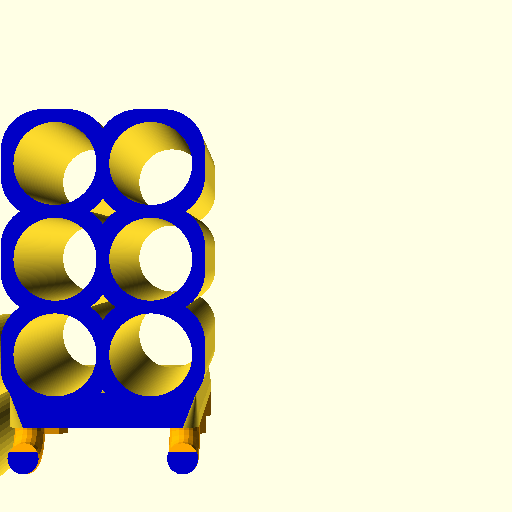
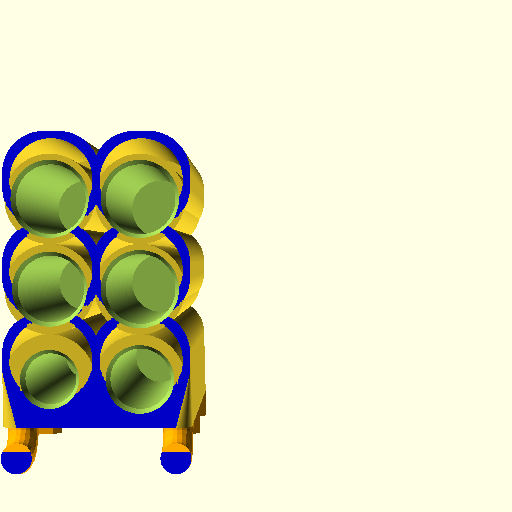
fixes

Changed region(s): [[0.0, 0.1875, 0.4375, 0.9375]]

diff --git a/CLAUDE.md b/CLAUDE.md
@@ -105,7 +105,7 @@ The two camera presets give a **top-diagonal** view (good for seeing hole geomet
 
 > **Key lesson:** `holder_z_size` must be large enough that `tz` leaves sufficient holder body after `flatten_top` clips at `tz`. The visible body height = `tz - (tz - holder_z_size_actual/2)` = `holder_z_size_actual/2`. All existing bin presets use `holder_z_size` ≥ 50mm. With `holder_z_size = 30` and `slot_z = 20`, flatten consumed the entire body.
 
-> **Key lesson (override fill cylinders):** The fill cylinder (h=holder_z_size, centered at `holder_z_size/2 - clip_height/2` in world Z) does NOT align with the top of the cell. There is an **open gap** of `tz - holder_z_size + clip_height/2` ≈ 12mm between the fill top and the cell top (tz). Bits enter this open gap unrestricted before hitting the fill. When cutting a hole of desired depth `l` from the cell top, the fill hole depth must be `l - open_gap`, NOT `l`. Using `l` directly removes all fill within the cell, creating a through-hole regardless of `l`. Formula: `fill_hole_depth = l - (tz - holder_z_size + clip_height / 2)`.
+> **Key lesson (override world-space coordinates):** Use the `allen-keys.scad` pattern for placing geometry alongside `pegstr()`. Cell centres in world space: `cx = wall_thickness + col*(wall_thickness + holder_x_size_actual) + holder_x_size_actual/2`, `cy = wall_thickness + row*(wall_thickness + holder_y_size) + holder_y_size/2`, `cz = tz - holder_z_size_actual/2`. Fill cylinders centred there span exactly the holder body (tz-holder_z_size_actual to tz). Holes cut from tz downward: `translate([cx, cy, tz - l/2]) cylinder(h=l, ...)`. The old `drill-bits.scad` formula (`-holder_offset - holder_y_size/2 - ...`) uses the wrong axis convention and places fills outside the holder body — do not use it as a reference.
 
 ## Architecture
 
